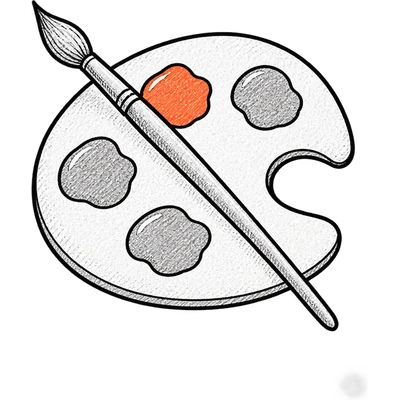
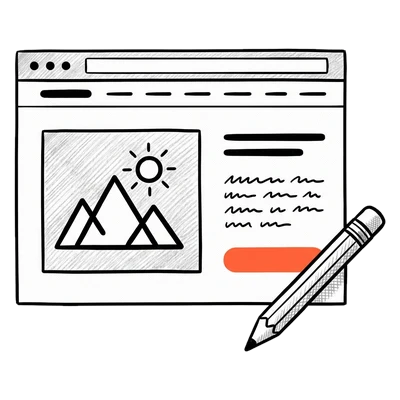
feat: add a service picker to the services page with a route for visitors with no website
Replace the web design paintbrush drawing with a website sketch, give web development its own booking calendar drawing, and reword the services intro so it no longer counts the services. All answers are rendered in the page HTML and closed ones start hidden on mobile.

diff --git a/src/components/service-page/service-picker.tsx b/src/components/service-page/service-picker.tsx
@@ -1,0 +1,170 @@
+"use client";
+
+import { useId, useState, useSyncExternalStore } from "react";
+import Image from "next/image";
+import { TextLink } from "@/components/ui/text-link";
+
+export type PickerChoice = {
+  /** What the visitor says about their situation, shown on the button. */
+  label: string;
+  /** Small label under it, naming the service. */
+  tag: string;
+  title: string;
+  description: string;
+  image: string;
+  href: string;
+  cta: string;
+  bullets?: string[];
+  steps?: { label: string; text: string }[];
+};
+
+/** Static class names so Tailwind can see them. Buttons stack in column one, one row each. */
+const BUTTON_ROWS = ["xl:row-start-1", "xl:row-start-2", "xl:row-start-3", "xl:row-start-4"];
+
+/**
+ * "Which of these sounds like you?" The answer for every choice is rendered into the page
+ * and the closed ones are only `hidden`, so search engines read all of them. One copy of each
+ * answer: on a phone it opens directly under its button, on desktop it sits in a second column.
+ */
+export function ServicePicker({ choices }: { choices: PickerChoice[] }) {
+  // Nothing is picked until the visitor taps. Two columns on desktop leave the answer side empty,
+  // so there the first choice shows by default (in CSS, so it is right before the page hydrates).
+  const [picked, setPicked] = useState<number | null>(null);
+  const isDesktop = useIsDesktop();
+  const baseId = useId();
+  const active = picked ?? (isDesktop ? 0 : null);
+
+  return (
+    <div className="grid grid-cols-1 gap-3.5 xl:grid-cols-[minmax(0,24rem)_minmax(0,1fr)] xl:grid-rows-[repeat(4,auto)_1fr] xl:gap-x-10">
+      {choices.map((choice, index) => {
+        const open = active === index;
+        const panelId = `${baseId}-panel-${index}`;
+        return (
+          <PickerItem
+            key={choice.title}
+            choice={choice}
+            open={open}
+            desktopDefault={picked === null && index === 0}
+            panelId={panelId}
+            rowClass={BUTTON_ROWS[index] ?? ""}
+            // On a phone, tapping the open choice closes it again.
+            onPick={() => setPicked(open && !isDesktop ? null : index)}
+          />
+        );
+      })}
+    </div>
+  );
+}
+
+const DESKTOP_QUERY = "(min-width: 1280px)";
+
+function subscribeDesktop(onChange: () => void) {
+  const query = window.matchMedia(DESKTOP_QUERY);
+  query.addEventListener("change", onChange);
+  return () => query.removeEventListener("change", onChange);
+}
+
+/** True at the width where the picker switches to two columns (Tailwind's `xl`). False while rendering on the server. */
+function useIsDesktop() {
+  return useSyncExternalStore(
+    subscribeDesktop,
+    () => window.matchMedia(DESKTOP_QUERY).matches,
+    () => false,
+  );
+}
+
+function PickerItem({
+  choice,
+  open,
+  desktopDefault,
+  panelId,
+  rowClass,
+  onPick,
+}: {
+  choice: PickerChoice;
+  open: boolean;
+  /** Nothing is picked yet: this choice shows as open on desktop only. */
+  desktopDefault: boolean;
+  panelId: string;
+  rowClass: string;
+  onPick: () => void;
+}) {
+  return (
+    <>
+      <button
+        type="button"
+        onClick={onPick}
+        aria-expanded={open}
+        aria-controls={panelId}
+        className={`flex min-h-11 w-full flex-col items-start gap-2 rounded-2xl border-[1.5px] px-6 py-5.5 text-left transition-[background-color,color,border-color,scale] duration-150 ease-out-strong active:scale-[0.98] xl:col-start-1 ${rowClass} ${
+          open
+            ? "border-ink bg-ink text-cream"
+            : `border-border-tan text-ink hover:border-ink ${
+                desktopDefault ? "xl:border-ink xl:bg-ink xl:text-cream" : ""
+              }`
+        }`}
+      >
+        <span className="text-xl font-medium leading-tight lg:text-2xl">{choice.label}</span>
+        <span
+          className={`font-mono text-[13px] uppercase tracking-[0.06em] ${
+            open ? "text-highlight" : `text-muted-strong ${desktopDefault ? "xl:text-highlight" : ""}`
+          }`}
+        >
+          {choice.tag}
+        </span>
+      </button>
+
+      <div
+        id={panelId}
+        className={`${
+          open ? "flex" : desktopDefault ? "hidden xl:flex" : "hidden"
+        } flex-col gap-5 rounded-3xl border border-border-tan bg-paper p-6 shadow-[0_1px_0_rgba(81,78,68,0.08),0_28px_48px_-30px_rgba(81,78,68,0.35)] sm:p-8 lg:p-10 xl:col-start-2 xl:row-span-5 xl:row-start-1`}
+      >
+        <Image
+          src={choice.image}
+          alt=""
+          width={400}
+          height={400}
+          sizes="(min-width: 1024px) 144px, 96px"
+          className="h-24 w-24 shrink-0 self-start object-contain lg:h-36 lg:w-36"
+        />
+        <div className="flex flex-col gap-4 lg:gap-5">
+          <h3 className="text-3xl font-semibold leading-tight tracking-[-0.01em] lg:text-4xl lg:leading-[1.08]">
+            {choice.title}
+          </h3>
+          <p className="max-w-130 text-base leading-relaxed text-muted-strong lg:text-lg">{choice.description}</p>
+
+          {choice.steps && (
+            <ul className="flex max-w-130 flex-col text-[15px] lg:text-base">
+              {choice.steps.map((step) => (
+                <li key={step.label} className="flex gap-4 border-t border-border py-3 lg:gap-5">
+                  <span className="w-22 shrink-0 pt-0.5 font-mono text-xs uppercase tracking-[0.06em] text-accent-text lg:w-24 lg:text-[13px]">
+                    {step.label}
+                  </span>
+                  <span className="text-muted-strong">{step.text}</span>
+                </li>
+              ))}
+            </ul>
+          )}
+
+          {choice.bullets && (
+            <ul className="flex flex-col gap-2 text-[15px] text-muted-strong lg:gap-2.5 lg:text-base">
+              {choice.bullets.map((bullet) => (
+                <li key={bullet} className="flex gap-3">
+                  <span aria-hidden="true" className="text-accent-text">
+                    +
+                  </span>
+                  {bullet}
+                </li>
+              ))}
+            </ul>
+          )}
+
+          <TextLink variant="button" href={choice.href} className="mt-1 w-fit max-sm:w-full max-sm:justify-center">
+            {choice.cta} <span aria-hidden="true">→</span>
+          </TextLink>
+        </div>
+      </div>
+    </>
+  );
+}

diff --git a/src/app/services/page.tsx b/src/app/services/page.tsx
@@ -1,6 +1,5 @@
 import type { Metadata } from "next";
-import Image from "next/image";
-import { serviceLinks, services as fallbackServices } from "@/content/site";
+import { newSiteChoice, serviceLinks, services as fallbackServices } from "@/content/site";
 import { buildPageMetadata } from "@/lib/page-metadata";
 import { getServicesIndexPage } from "@/lib/site-pages";
 import { sanityFetch } from "@/sanity/lib/live";
@@ -8,6 +7,7 @@ import { servicesQuery } from "@/sanity/lib/queries";
 import { PageShell } from "@/components/service-page/page-shell";
 import { Breadcrumbs } from "@/components/service-page/breadcrumbs";
 import { ServiceHeader } from "@/components/service-page/service-header";
+import { ServicePicker, type PickerChoice } from "@/components/service-page/service-picker";
 import { PageModifiedJsonLd } from "@/components/ui/page-modified-jsonld";
 import { TextLink } from "@/components/ui/text-link";
 import { ReviewPromo } from "@/components/sections/review-promo";
@@ -31,6 +31,20 @@ export default async function ServicesPage() {
     return { ...link, description: detail?.description ?? link.summary, bullets: detail?.bullets ?? [] };
   });
 
+  const choices: PickerChoice[] = [
+    newSiteChoice,
+    ...services.map((service) => ({
+      label: service.choice,
+      tag: service.title,
+      title: service.title,
+      description: service.description,
+      image: `/images/focus/${service.image}.webp`,
+      href: service.href,
+      cta: `Explore ${service.title.toLowerCase()}`,
+      bullets: service.bullets,
+    })),
+  ];
+
   const jsonLd = {
     "@context": "https://schema.org",
     "@type": "ItemList",
@@ -53,45 +67,19 @@ export default async function ServicesPage() {
       <Breadcrumbs label="Services" path={PATH} />
       <ServiceHeader eyebrow={page.eyebrow} heading={page.heading} intro={page.intro} />
 
-      <div className="border-t border-border-tan bg-tan px-6 py-6 sm:px-10 lg:px-35 lg:py-10">
-        <ul className="flex flex-col">
-          {services.map((service, index) => (
-            <li
-              key={service.href}
-              className={`grid gap-8 py-10 lg:grid-cols-[10rem_minmax(0,1fr)] lg:gap-14 lg:py-14 ${
-                index > 0 ? "border-t border-border-tan" : ""
-              }`}
-            >
-              <Image
-                src={`/images/focus/${service.image}.webp`}
-                alt=""
-                width={400}
-                height={400}
-                sizes="(min-width: 1024px) 160px, 128px"
-                className="h-32 w-auto self-start lg:h-40"
-              />
-
-              <div className="flex flex-col gap-4">
-                <h2 className="text-3xl font-semibold leading-tight lg:text-[40px]">{service.title}</h2>
-                <p className="max-w-130 text-base leading-relaxed text-muted-strong lg:text-lg">{service.description}</p>
-                <ul className="flex flex-col gap-1.5 text-[15px] text-muted-strong">
-                  {service.bullets.map((bullet) => (
-                    <li key={bullet} className="flex gap-3">
-                      <span aria-hidden="true" className="text-accent-text">
-                        +
-                      </span>
-                      {bullet}
-                    </li>
-                  ))}
-                </ul>
-                <p className="mt-2 max-w-130 text-lg font-medium leading-snug text-ink lg:text-xl">{service.fit}</p>
-                <TextLink variant="big" href={service.href} className="mt-1 w-fit">
-                  Explore {service.title.toLowerCase()} <span aria-hidden="true">→</span>
-                </TextLink>
-              </div>
-            </li>
+      <div className="border-y border-border-tan bg-tan px-6 py-12 sm:px-10 lg:px-35 lg:py-20">
+        <h2 className="mb-8 max-w-180 text-3xl font-medium leading-tight tracking-[-0.01em] lg:mb-10 lg:text-[44px]">
+          Which of these sounds like you?
+        </h2>
+        <ServicePicker choices={choices} />
+        <nav aria-label="Services" className="mt-10 flex flex-wrap items-center gap-x-7 gap-y-1 text-[15px] text-muted-strong lg:mt-12">
+          <span>Or go straight to a service:</span>
+          {services.map((service) => (
+            <TextLink key={service.href} variant="underline" href={service.href}>
+              {service.title}
+            </TextLink>
           ))}
-        </ul>
+        </nav>
       </div>
 
       <ReviewPromo />

diff --git a/src/content/site.ts b/src/content/site.ts
@@ -5,6 +5,7 @@ export const serviceLinks = [
 		href: '/web-design-watford',
 		summary: 'Custom, on-brand design built around how your customers decide.',
 		fit: "Good for you if your site looks dated, or doesn't feel like your business.",
+		choice: 'My site looks dated',
 		image: 'brand',
 	},
 	{
@@ -12,16 +13,36 @@ export const serviceLinks = [
 		href: '/web-development-watford',
 		summary: 'Bookings, accounts and bespoke tools built around your business.',
 		fit: "Good for you if you need it to do more, like bookings, customer accounts or a quote calculator.",
-		image: 'requirements',
+		choice: 'I need it to do more',
+		image: 'development',
 	},
 	{
 		title: 'E-Commerce',
 		href: '/ecommerce-watford',
 		summary: 'Online stores that present products clearly and make buying simple.',
 		fit: 'Good for you if you want to start selling your products online.',
+		choice: 'I want to sell online',
 		image: 'product-pages',
 	},
 ];
+
+/** The services page picker's first choice, for visitors who have no website yet. */
+export const newSiteChoice = {
+	label: "I don't have a website yet",
+	tag: 'New website',
+	title: 'Starting with no website',
+	description:
+		"You don't need to know what you need yet. We talk through your business, then I design and build the site around it and look after it once it's live.",
+	image: '/images/focus/new-site.webp',
+	href: '/contact',
+	cta: 'Start a project',
+	steps: [
+		{ label: 'Talk', text: 'We go through your business and what the site should do' },
+		{ label: 'Design', text: 'A look built around your business, never a template' },
+		{ label: 'Build', text: 'Custom-built, with content you can edit yourself' },
+		{ label: 'Look after', text: "Support once it's live" },
+	],
+};
 
 export const nav: {
 	label: string;

diff --git a/src/lib/site-pages.ts b/src/lib/site-pages.ts
@@ -105,7 +105,7 @@ const servicesIndexFallback = {
   eyebrow: "Services",
   heading: "Web design, development and e-commerce in Watford",
   intro:
-    "Three ways I can help, all built around how your business works. Pick the one that fits, or tell me what you need and we'll work it out together.",
+    "Everything is built around how your business works. Pick what sounds like you, or tell me what you need and we'll work it out together.",
 };
 
 export async function getServicesIndexPage() {
